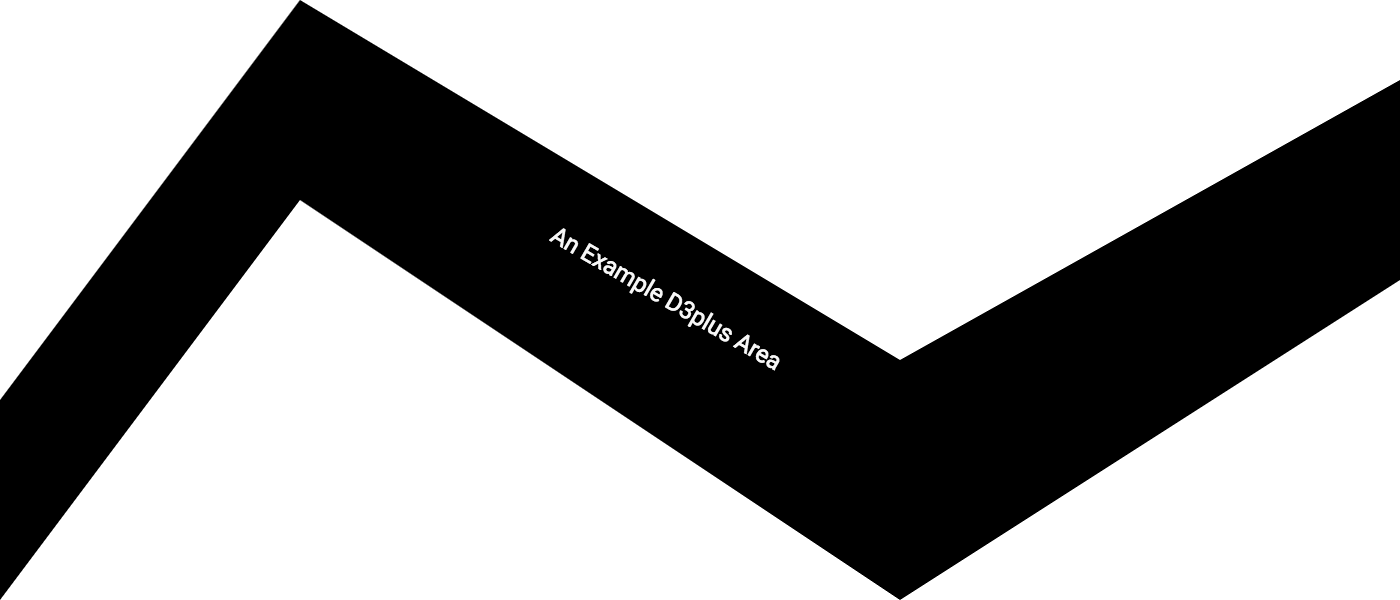
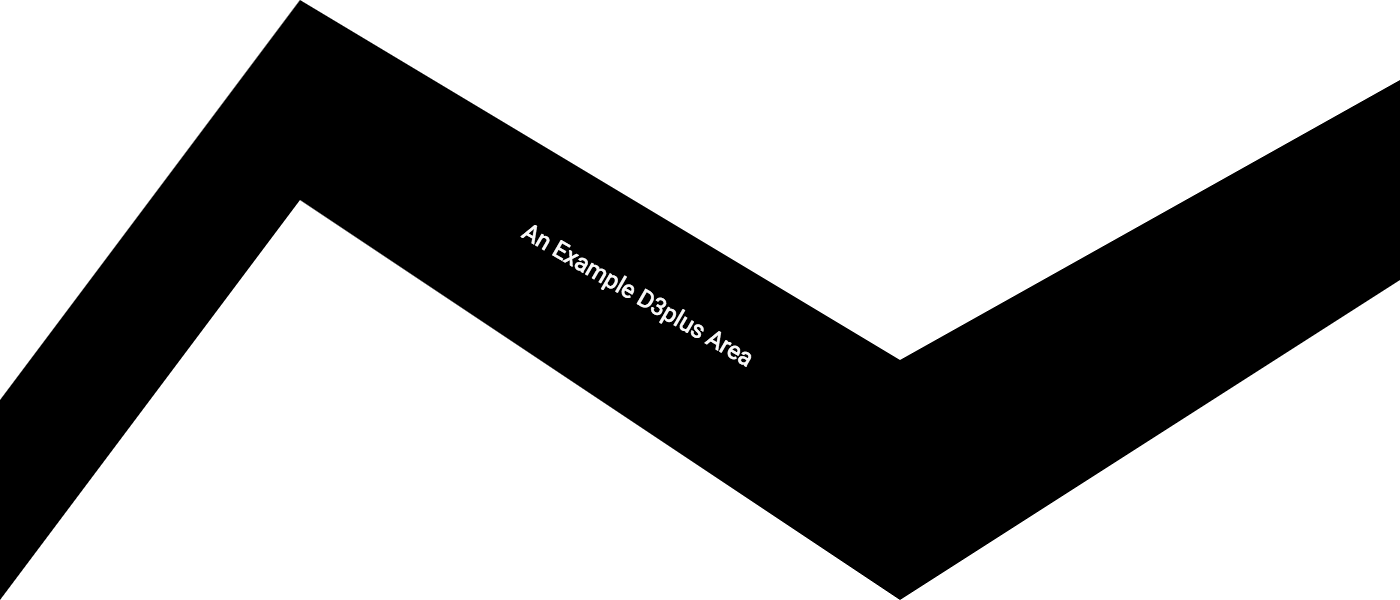
Revert "Merge branch 'master' of https://github.com/d3plus/d3plus-shape"
This reverts commit 2ae00947eb54063ebe1044bfee7bb8372da9e840, reversing
changes made to a6d0310405535f1837167b4e5a6d256d0f34ab91.

Changed region(s): [[0.3686, 0.39, 0.5529, 0.63]]

diff --git a/src/Shape/Shape.js b/src/Shape/Shape.js
@@ -464,7 +464,7 @@ export default class Shape extends BaseClass {
       .data(labelData)
       .duration(this._duration)
       .pointerEvents("none")
-      .rotate(d => d.r)
+      .rotate(d => d.data.r)
       .rotateAnchor(d => d.data.rotateAnchor)
       .select(elem(`g.d3plus-${this._name}-text`, {parent: this._group, update: {opacity: this._active ? this._activeOpacity : 1}}).node())
       .config(this._labelConfig)

diff --git a/README.md b/README.md
@@ -1309,4 +1309,4 @@ This is a global typedef.
 
 
 
-###### <sub>Documentation generated on Tue, 05 Jun 2018 15:20:05 GMT</sub>
+###### <sub>Documentation generated on Tue, 15 May 2018 18:46:55 GMT</sub>
